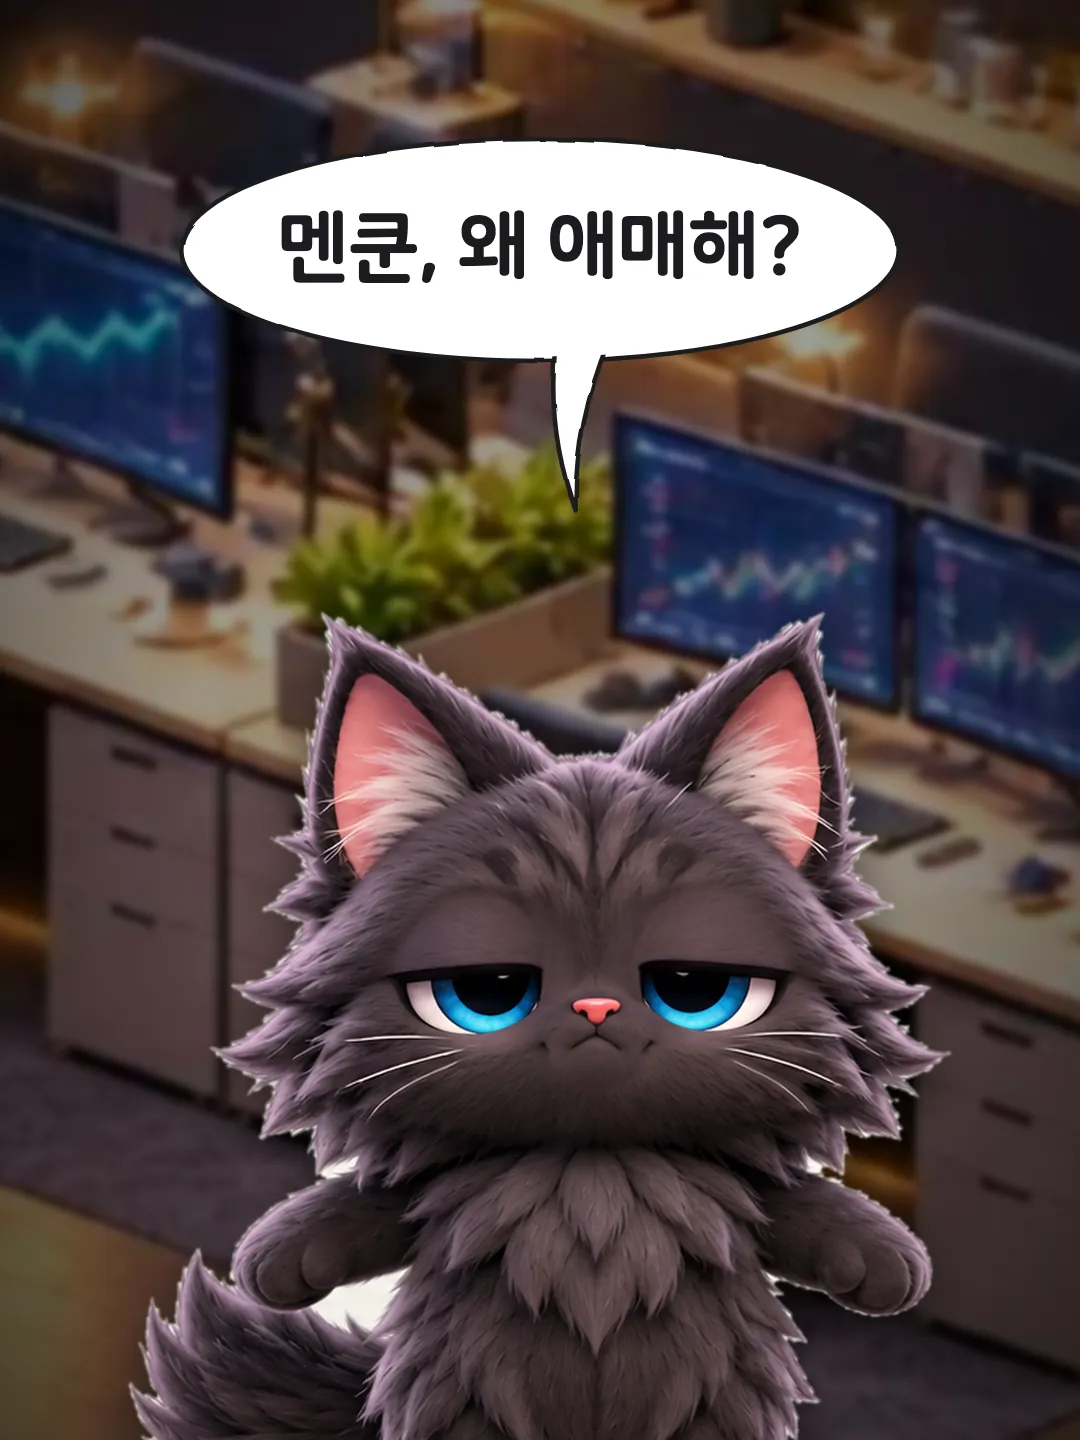
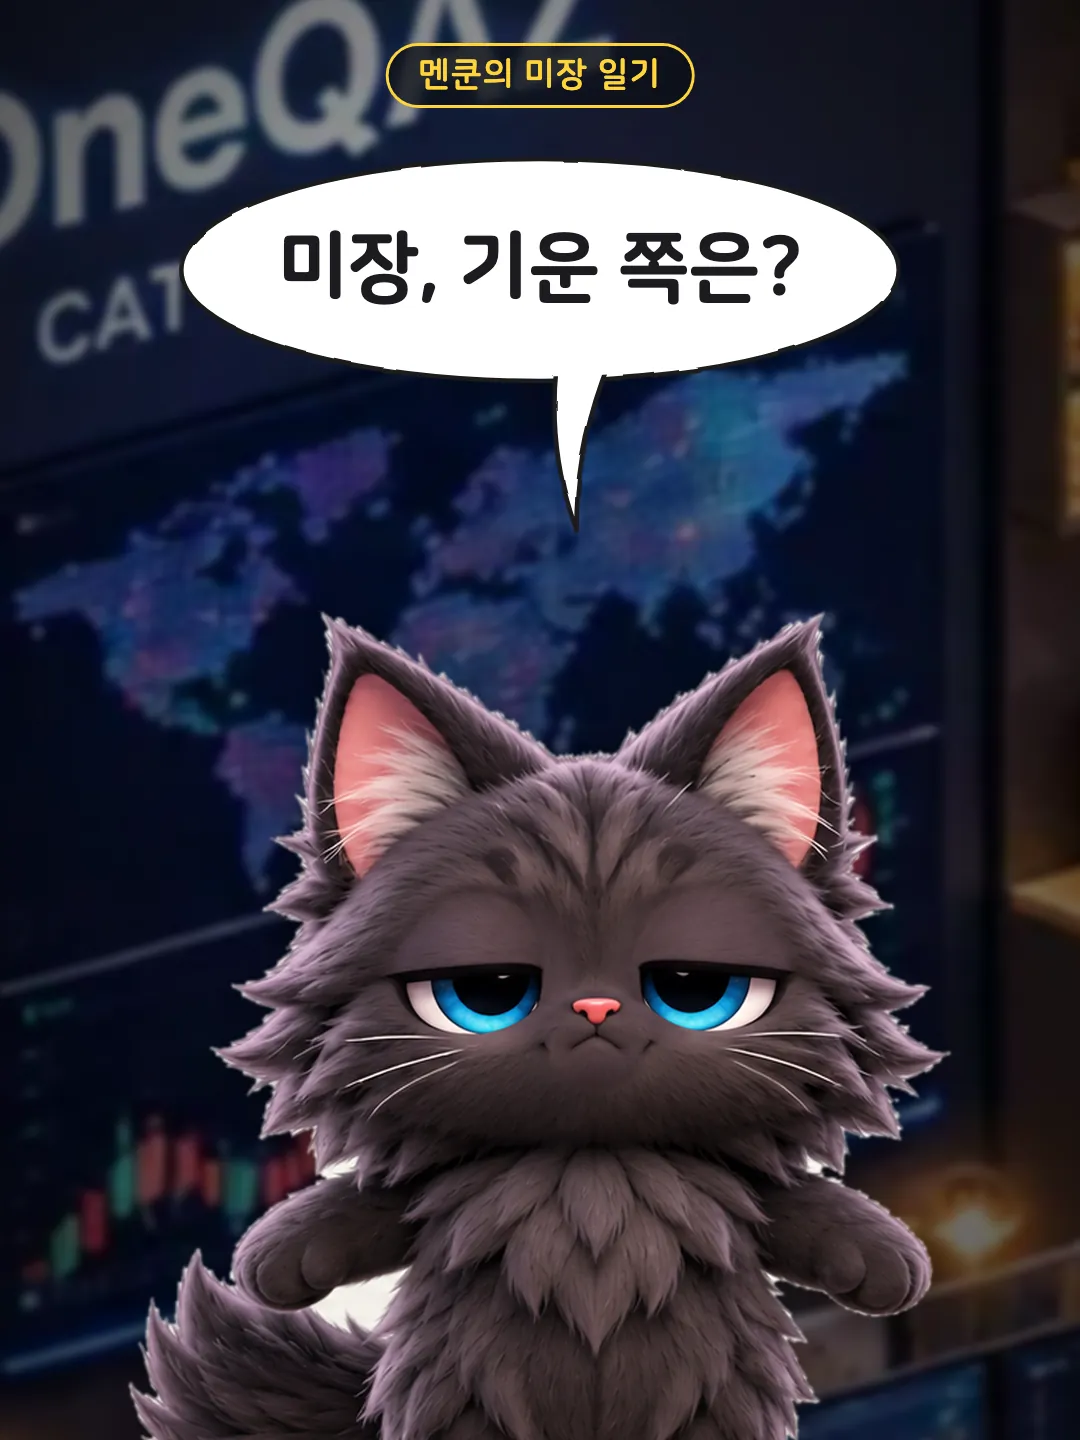
publish: 멘쿤의 미장 일기 — 약세 51.2%, 추세는 개선

diff --git a/src/content/toon/2026-11-18-us.md b/src/content/toon/2026-11-18-us.md
@@ -1,8 +1,8 @@
 ---
-title: 미장, 옆으로 걷는데 살짝 아래로 기운 하루
+title: 멘쿤의 미장 일기 — 약세 51.2%, 추세는 개선
 date: '2026-11-18T08:45:06+09:00'
-description: 미장은 횡보 속 약세 국면이고 약세 신호가 51.2%였습니다. 흐름 자체는 개선 쪽으로 움직이고 있습니다. 코인과 국장도 약세
-  쪽으로 기울었고, 채권은 강세, 외환은 강한 강세였습니다.
+description: 2026-11-18 기준 미장은 횡보 속 약세 국면이었고, 약세 51.2%·강세 28.8%로 집계됐어요. 약한 섹터는 기술·금융·산업재,
+  강한 섹터는 필수소비재·통신·부동산이었고 추세는 개선으로 나왔어요. 18일 미국 장 시작 전 로우즈·TJX 실적 발표가 예정돼 있어요.
 category: toon
 markets:
 - us
@@ -19,21 +19,22 @@ series: us
 episode: 3
 images:
 - src: /toon/2026-11-18-us/01.webp
-  alt: 1/표지 — 멘쿤, 왜 애매해?
+  alt: 1/표지 — 미장, 기운 쪽은?
 - src: /toon/2026-11-18-us/02.webp
-  alt: '2/대화 — !QAZ: 멘쿤, 얼굴이 왜 그래? / 멘쿤: 미장이 옆으로만 가 / !QAZ: 기운 쪽은 어디야? / 멘쿤: ...살짝
-    아래.'
+  alt: '2/대화 — !QAZ: 미장 어땠어? / 멘쿤: 기술·금융·산업재가 약했어. 버틴 건 필수소비재·통신·부동산. / !QAZ: 골고루는
+    아니네 / 멘쿤: 횡보 속 약세래'
 - src: /toon/2026-11-18-us/03.webp
-  alt: '3/대화 — !QAZ: 코인이랑 국장은? / 멘쿤: 걔네도 아래로 기울었어 / !QAZ: 채권·외환은 멀쩡하네? / 멘쿤: 응, 거긴
-    해 떴어'
+  alt: '3/대화 — !QAZ: 다른 동네는? / 멘쿤: 코인은 약세가 88%래. 그쪽도 횡보 속 약세. / !QAZ: 여긴 51%고 / 멘쿤:
+    ...숫자만 보면 그래'
 - src: /toon/2026-11-18-us/04.webp
-  alt: 4/핵심 — 약세 신호 51.2%야
+  alt: 4/핵심 — 약세 51.2%인데 흐름은 개선 중
 - src: /toon/2026-11-18-us/05.webp
-  alt: '5/마무리 — !QAZ: 흐름은 좀 나아졌다며? / 멘쿤: 그래도 무거워. 몰라'
+  alt: '5/마무리 — !QAZ: 잡힌 일정은? / 멘쿤: 18일 미국 장 시작 전, 로우즈·TJX 실적 발표 예정돼 있어. / 멘쿤: ...일단
+    간식부터.'
 source: /market/2026-11-18-us-close/
 ---
 
-원문 시황: [2026-11-18 멘쿤](/market/2026-11-18-us-close/)
+[원문 시황: 2026-11-18 멘쿤](/market/2026-11-18-us-close/)
 
 ---
 
